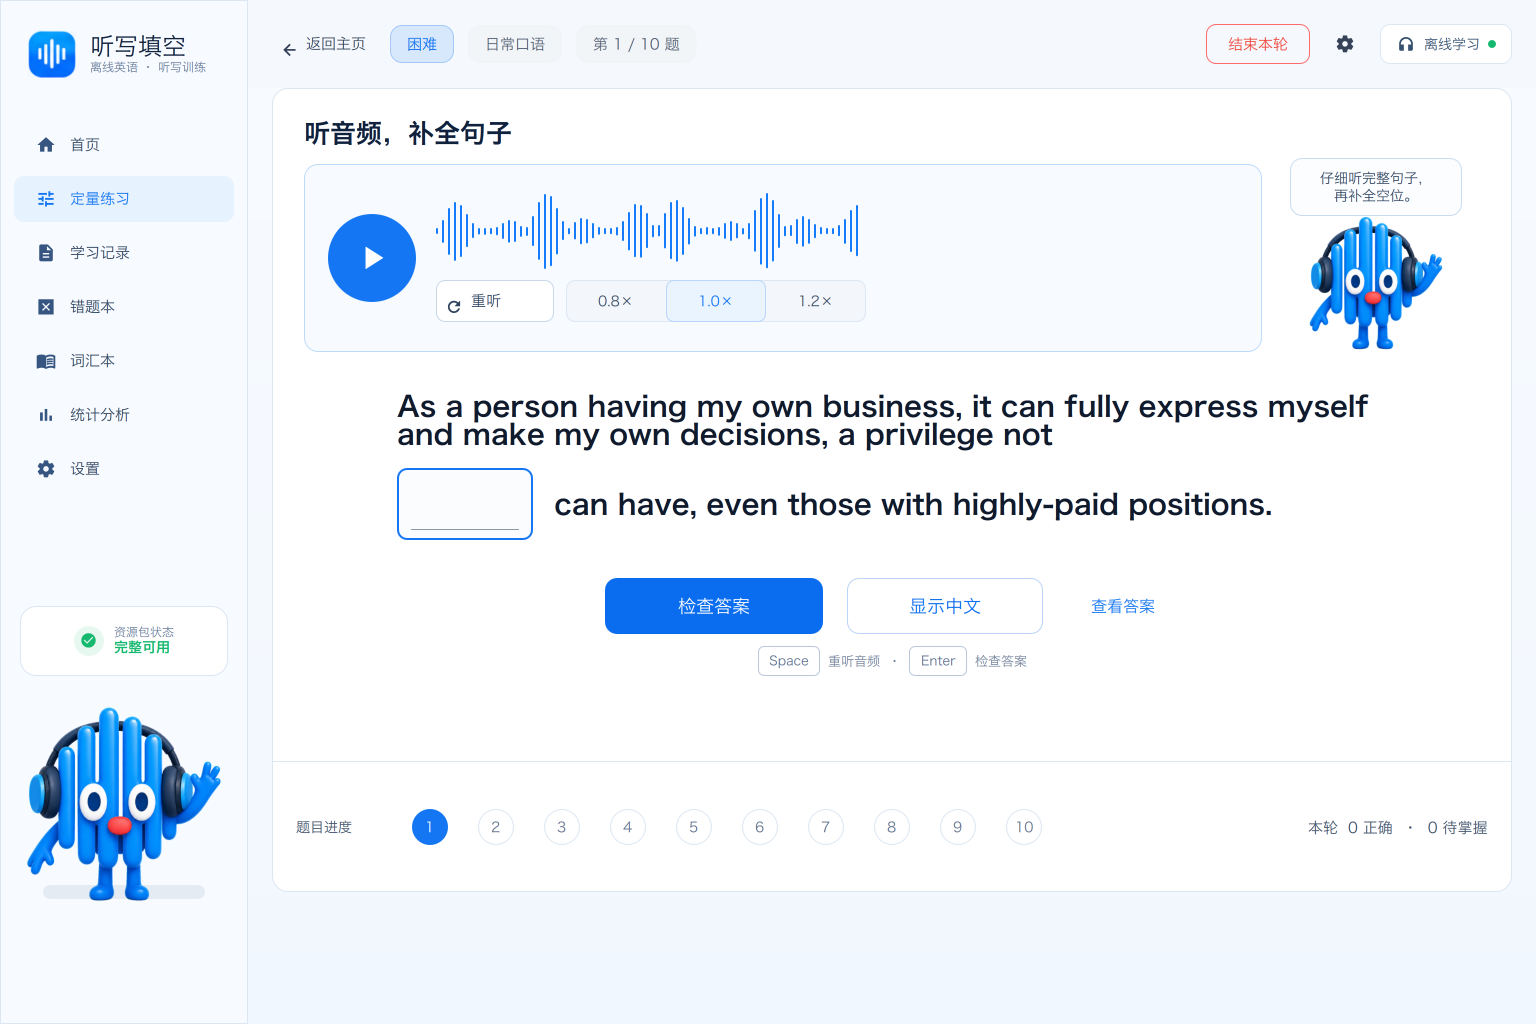
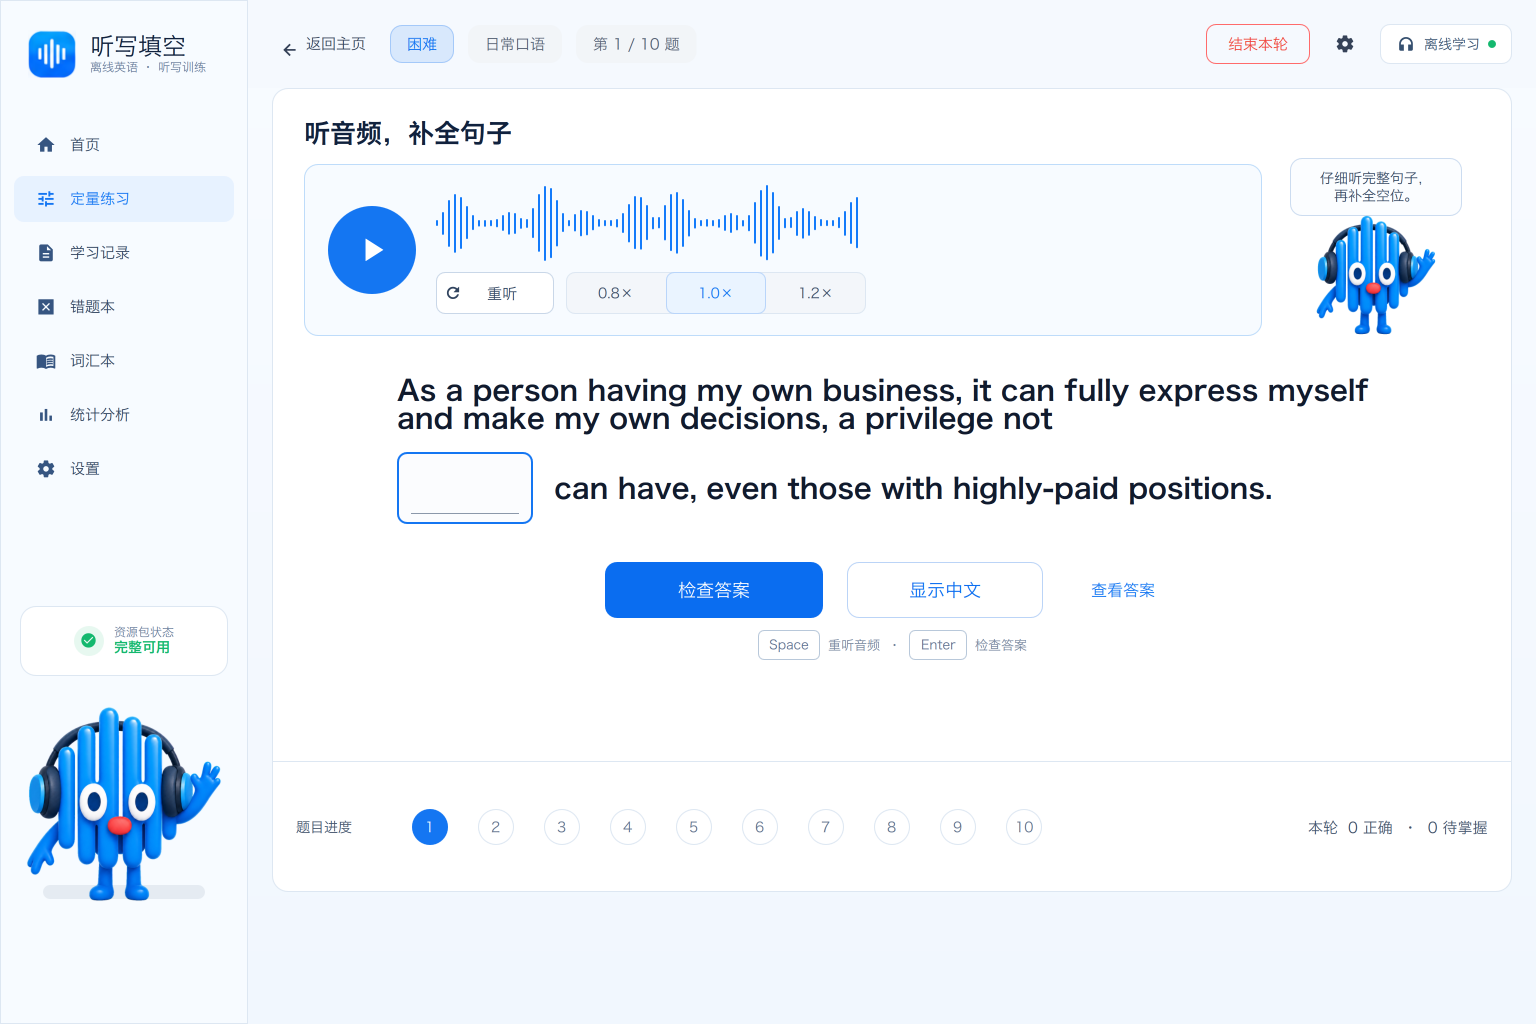
fix: keep Windows long practice layout in view

diff --git a/src/listening_cloze/ui/qml/PracticePage.qml b/src/listening_cloze/ui/qml/PracticePage.qml
@@ -246,7 +246,7 @@ Item {
                         Layout.fillWidth: true
                         Layout.preferredHeight: page.compactContent ? 164
                                                 : page.denseQuestionLayout
-                                                  ? 198 : 214
+                                                  ? 182 : 214
                         spacing: page.compactContent ? 14 : 22
 
                         Rectangle {
@@ -255,7 +255,7 @@ Item {
                             Layout.fillWidth: true
                             Layout.preferredHeight: page.compactContent ? 164
                                                     : page.denseQuestionLayout
-                                                      ? 188 : 204
+                                                      ? 172 : 204
                             radius: 14
                             color: "#F7FBFF"
                             border.width: 1
@@ -477,7 +477,8 @@ Item {
                             objectName: "mascotCoach"
                             visible: practiceScroll.availableWidth >= 920
                             Layout.preferredWidth: visible ? 184 : 0
-                            Layout.preferredHeight: 200
+                            Layout.preferredHeight:
+                                page.denseQuestionLayout ? 184 : 200
                             Layout.alignment: Qt.AlignVCenter
                             Layout.rightMargin: 12
                             spacing: -8
@@ -509,8 +510,10 @@ Item {
                             FeedbackMascot {
                                 objectName: "mascot"
                                 Layout.alignment: Qt.AlignHCenter
-                                Layout.preferredWidth: 174
-                                Layout.preferredHeight: 150
+                                Layout.preferredWidth:
+                                    page.denseQuestionLayout ? 158 : 174
+                                Layout.preferredHeight:
+                                    page.denseQuestionLayout ? 134 : 150
                                 mood: page.visualCorrect ? "correct"
                                       : page.visualWrong ? "incorrect"
                                       : page.state

diff --git a/tests/ui/test_qml_smoke.py b/tests/ui/test_qml_smoke.py
@@ -1215,7 +1215,10 @@ def test_long_idle_question_keeps_core_actions_visible_without_scrolling(
     for core_action in (submit_button, translation_button, shortcut_hint):
         position = core_action.mapToItem(practice_scroll, QPointF(0, 0))
         assert position.y() >= 0
-        assert position.y() + core_action.height() <= practice_scroll.height()
+        assert (
+            position.y() + core_action.height()
+            <= practice_scroll.height() - 12
+        )
 
     assert not any("Binding loop" in record.message for record in qtlog.records)
 
